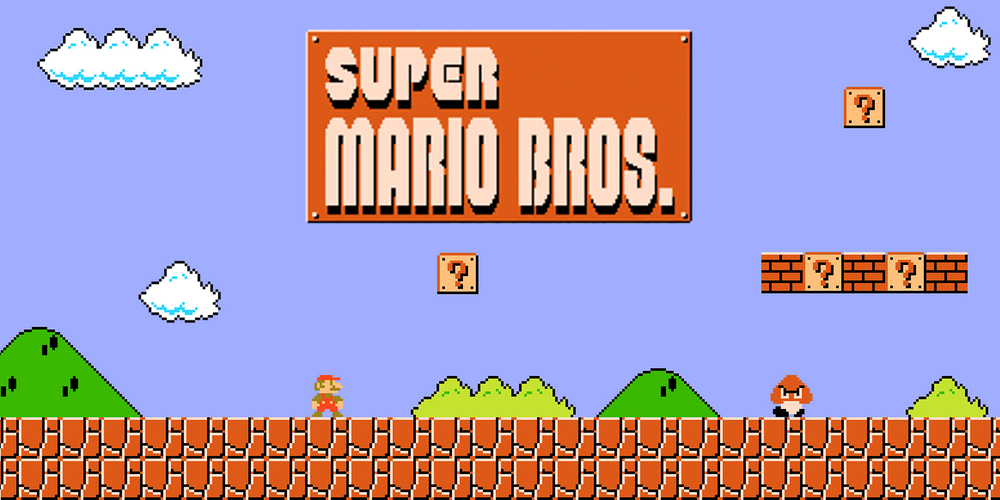
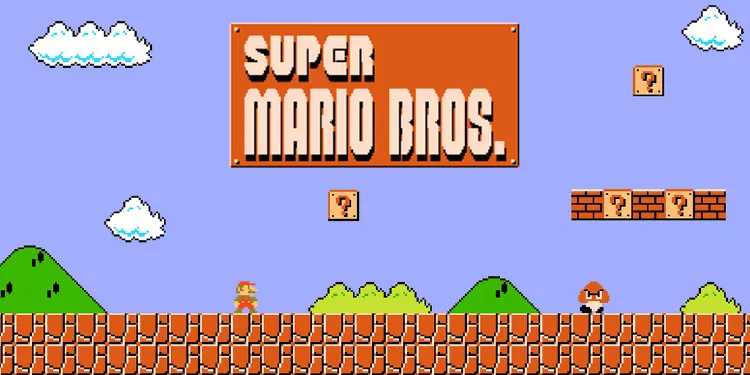
Maj size + add Preload

diff --git a/src/Styles/PagesProjects.css b/src/Styles/PagesProjects.css
@@ -23,6 +23,9 @@
     width: 60%;
     border-radius: 10px;
 }
+.Pages #Slide{
+    width: 750px;
+}
 .pages-info-prc{
     margin-top: px;
     text-shadow: 2px 2px 20px rgba(255, 255, 255, 0.5);
@@ -42,23 +45,23 @@
     margin-top: 100px;
 }
 .pages-techo {
-    display: flex;                       
-    justify-content: center;             
-    align-items: center;                 
-    margin-top: 10px;                    
+    display: flex;
+    justify-content: center;
+    align-items: center;
+    margin-top: 10px;
 }
 
 .pages-techo div {
-    display: flex;                      
-    flex-direction: column;              
-    align-items: center;                
-    margin: 0 15px;                     
+    display: flex;
+    flex-direction: column;
+    align-items: center;
+    margin: 0 15px;
 }
 
 .pages-techo img {
-    width: 100px;                         
-    height: auto;                        
-    margin-bottom: 5px;                 
+    width: 100px;
+    height: auto;
+    margin-bottom: 5px;
 }
 .Pages h1{
     margin-top: 20px;
@@ -91,6 +94,9 @@
     }
     #GithubLink{
         margin-top: 20px;
+    }
+    .Pages #Slide{
+        width: 400px;
     }
 
 }

diff --git a/src/PagesProjects/InstaGramClone.jsx b/src/PagesProjects/InstaGramClone.jsx
@@ -11,7 +11,7 @@ export default function InstaGramClone(){
         <div className='Pages'>
 
         <div className='Pages-top'>
-            <img src={imgtest} alt="CardSlide" />
+            <img src={imgtest} alt="CardSlide" id='Slide'/>
             <div className='pages-info'>
                 <div className='pages-info-prc'>
                 <p className="projects-nom">Instagram Clone</p>

diff --git a/src/PagesProjects/AdminInterface.jsx b/src/PagesProjects/AdminInterface.jsx
@@ -12,7 +12,7 @@ export default function AdminInterface(){
         <div className='Pages'>
 
         <div className='Pages-top'>
-            <img src={imgtest} alt="CardSlide" />
+            <img src={imgtest} alt="CardSlide" id='Slide'/>
             <div className='pages-info'>
                 <div className='pages-info-prc'>
                 <p className="projects-nom">AdminInterface</p>

diff --git a/src/PagesProjects/PlaformerGame.jsx b/src/PagesProjects/PlaformerGame.jsx
@@ -11,7 +11,7 @@ export default function PlatformerGame(){
         <div className='Pages'>
 
         <div className='Pages-top'>
-            <img src={imgtest} alt="CardSlide" />
+            <img src={imgtest} alt="CardSlide" id='Slide' />
             <div className='pages-info'>
                 <div className='pages-info-prc'>
                 <p className="projects-nom">Mario Briss</p>

diff --git a/src/PagesProjects/SportApplication.jsx b/src/PagesProjects/SportApplication.jsx
@@ -12,7 +12,7 @@ export default function SportApplication(){
         <div className='Pages'>
 
         <div className='Pages-top'>
-            <img src={imgtest} alt="CardSlide" />
+            <img src={imgtest} alt="CardSlide" id='Slide' />
             <div className='pages-info'>
                 <div className='pages-info-prc'>
                 <p className="projects-nom">ActiFit</p>

diff --git a/src/PagesProjects/Cartography.jsx b/src/PagesProjects/Cartography.jsx
@@ -12,7 +12,7 @@ export default function Cartograhy(){
         <div className='Pages'>
 
         <div className='Pages-top'>
-            <img src={imgtest} alt="CardSlide" />
+            <img src={imgtest} alt="CardSlide" id='Slide'/>
             <div className='pages-info'>
                 <div className='pages-info-prc'>
                 <p className="projects-nom">Cartographie</p>

diff --git a/src/PagesProjects/Ransomware.jsx b/src/PagesProjects/Ransomware.jsx
@@ -10,7 +10,7 @@ export default function Ransomware(){
         <div className='Pages'>
 
         <div className='Pages-top'>
-            <img src={imgtest} alt="CardSlide" />
+            <img src={imgtest} alt="CardSlide" id='Slide'/>
             <div className='pages-info'>
                 <div className='pages-info-prc'>
                 <p className="projects-nom">Ransomware</p>

diff --git a/public/index.html b/public/index.html
@@ -13,6 +13,7 @@
     <link rel="apple-touch-icon" href="%PUBLIC_URL%/logo.ico" />
 
     <link rel="manifest" href="%PUBLIC_URL%/manifest.json" />
+    <link rel="preload" href="/src/assets/herroBanner.webp" as="image">
 
     <title>Portfolio</title>
   </head>
